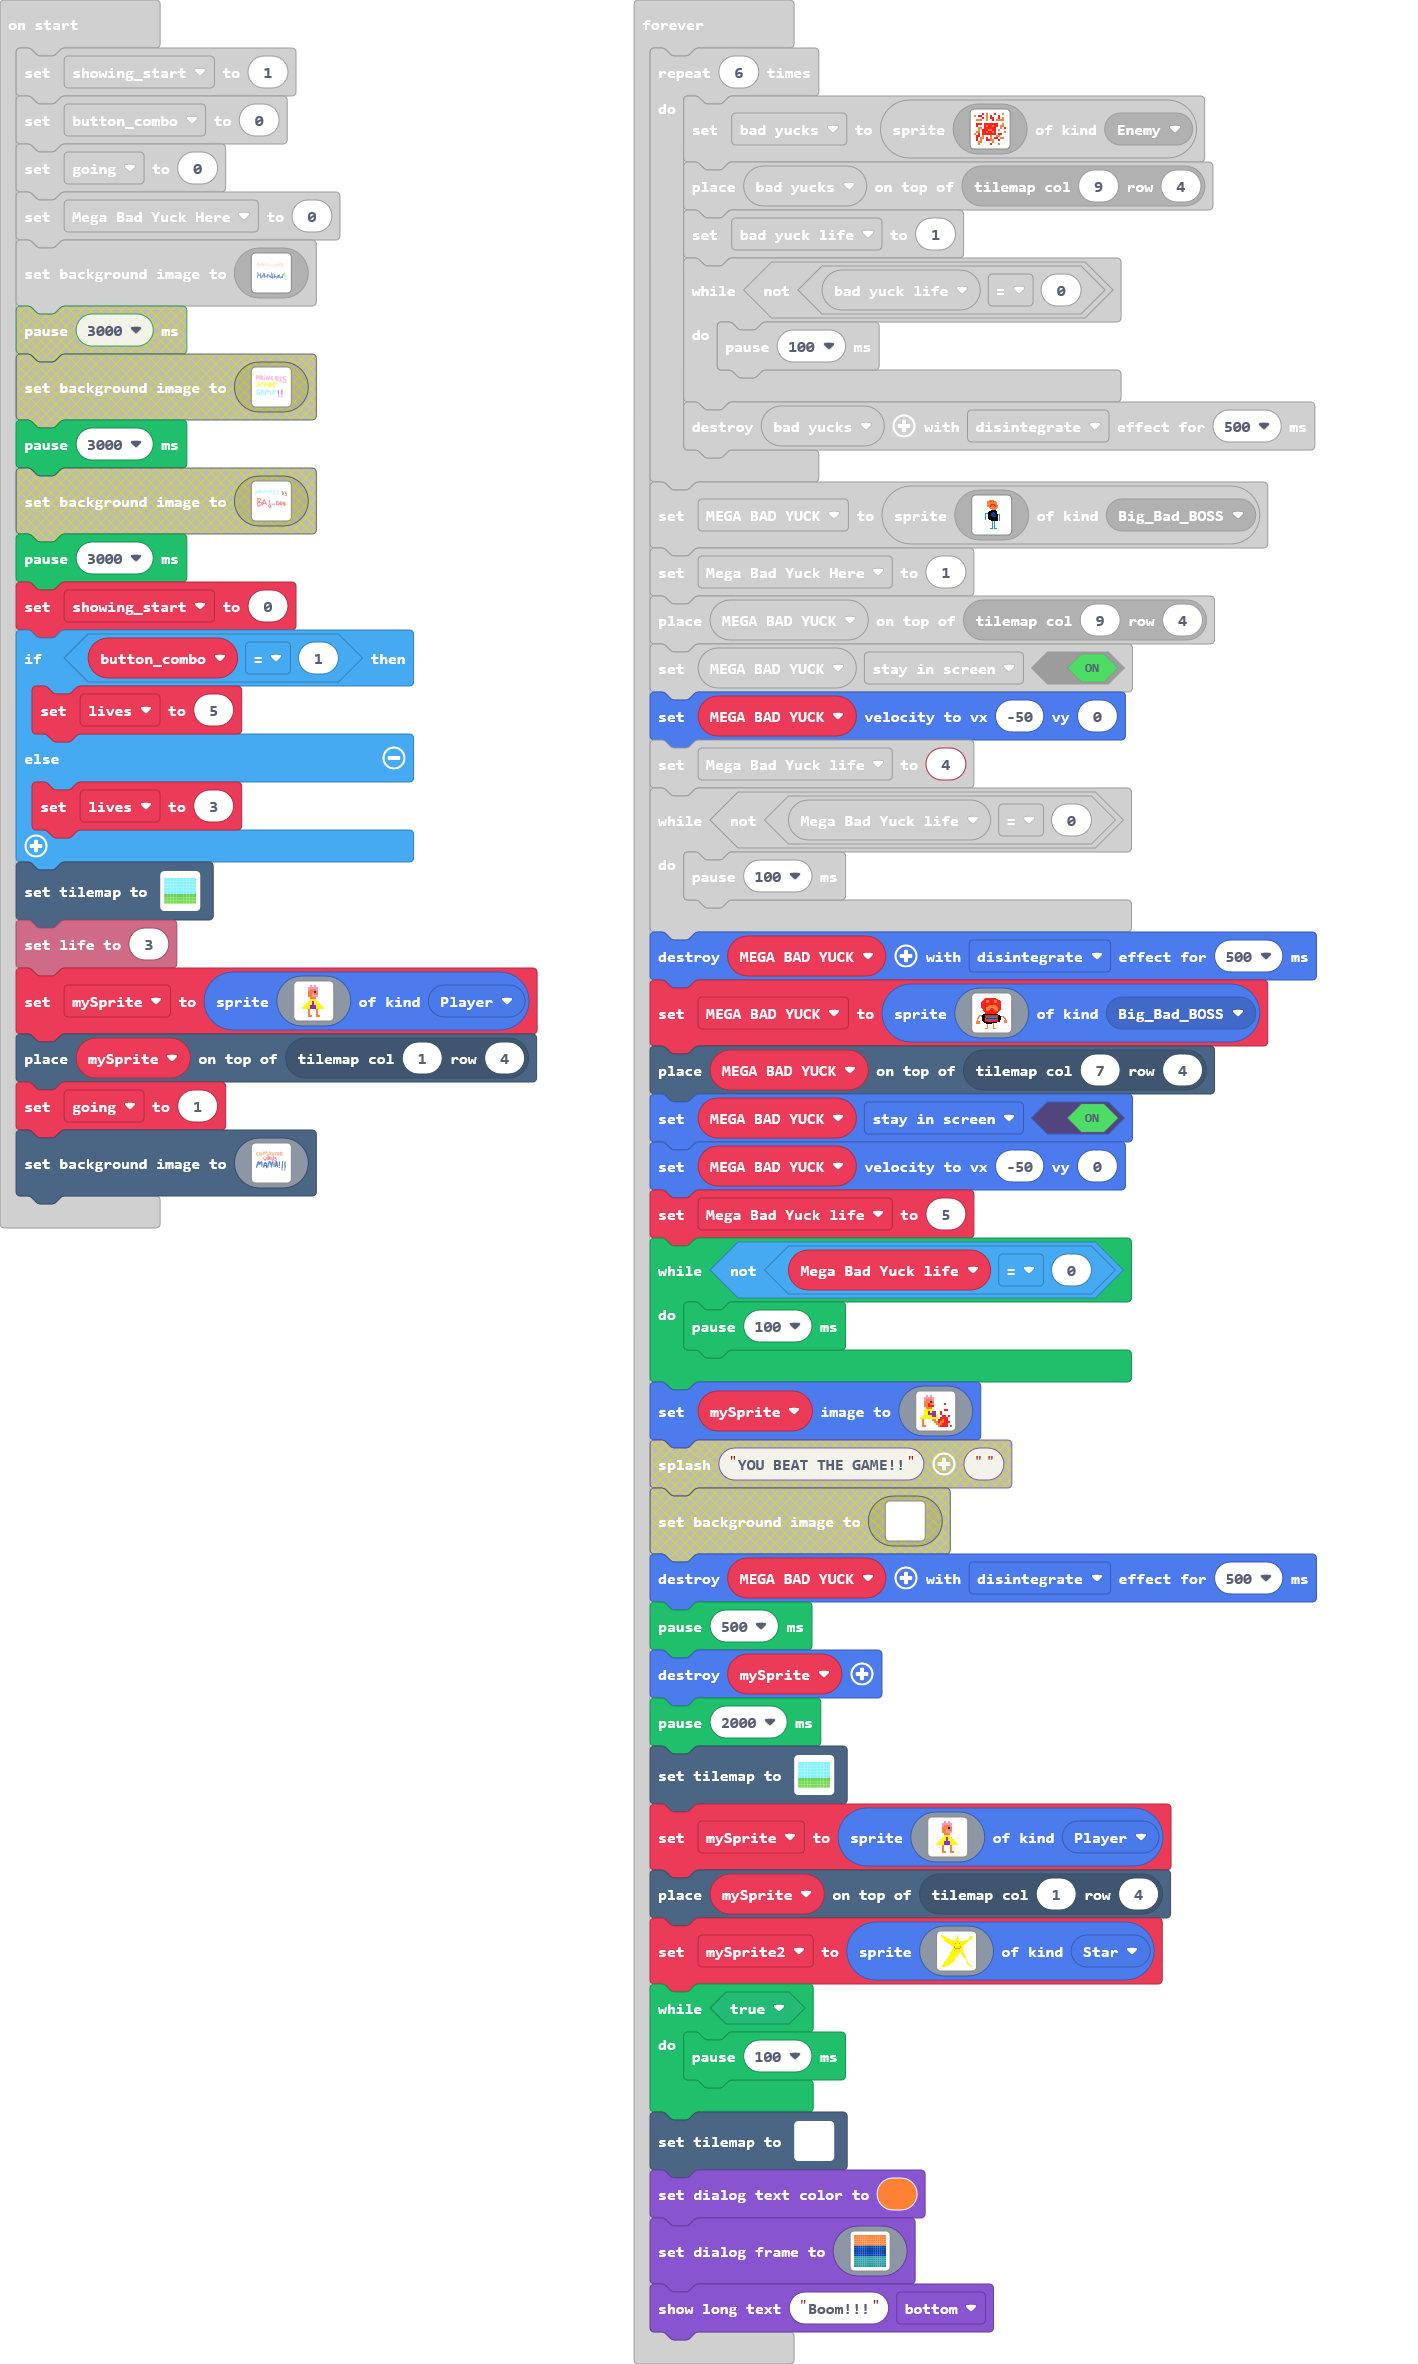
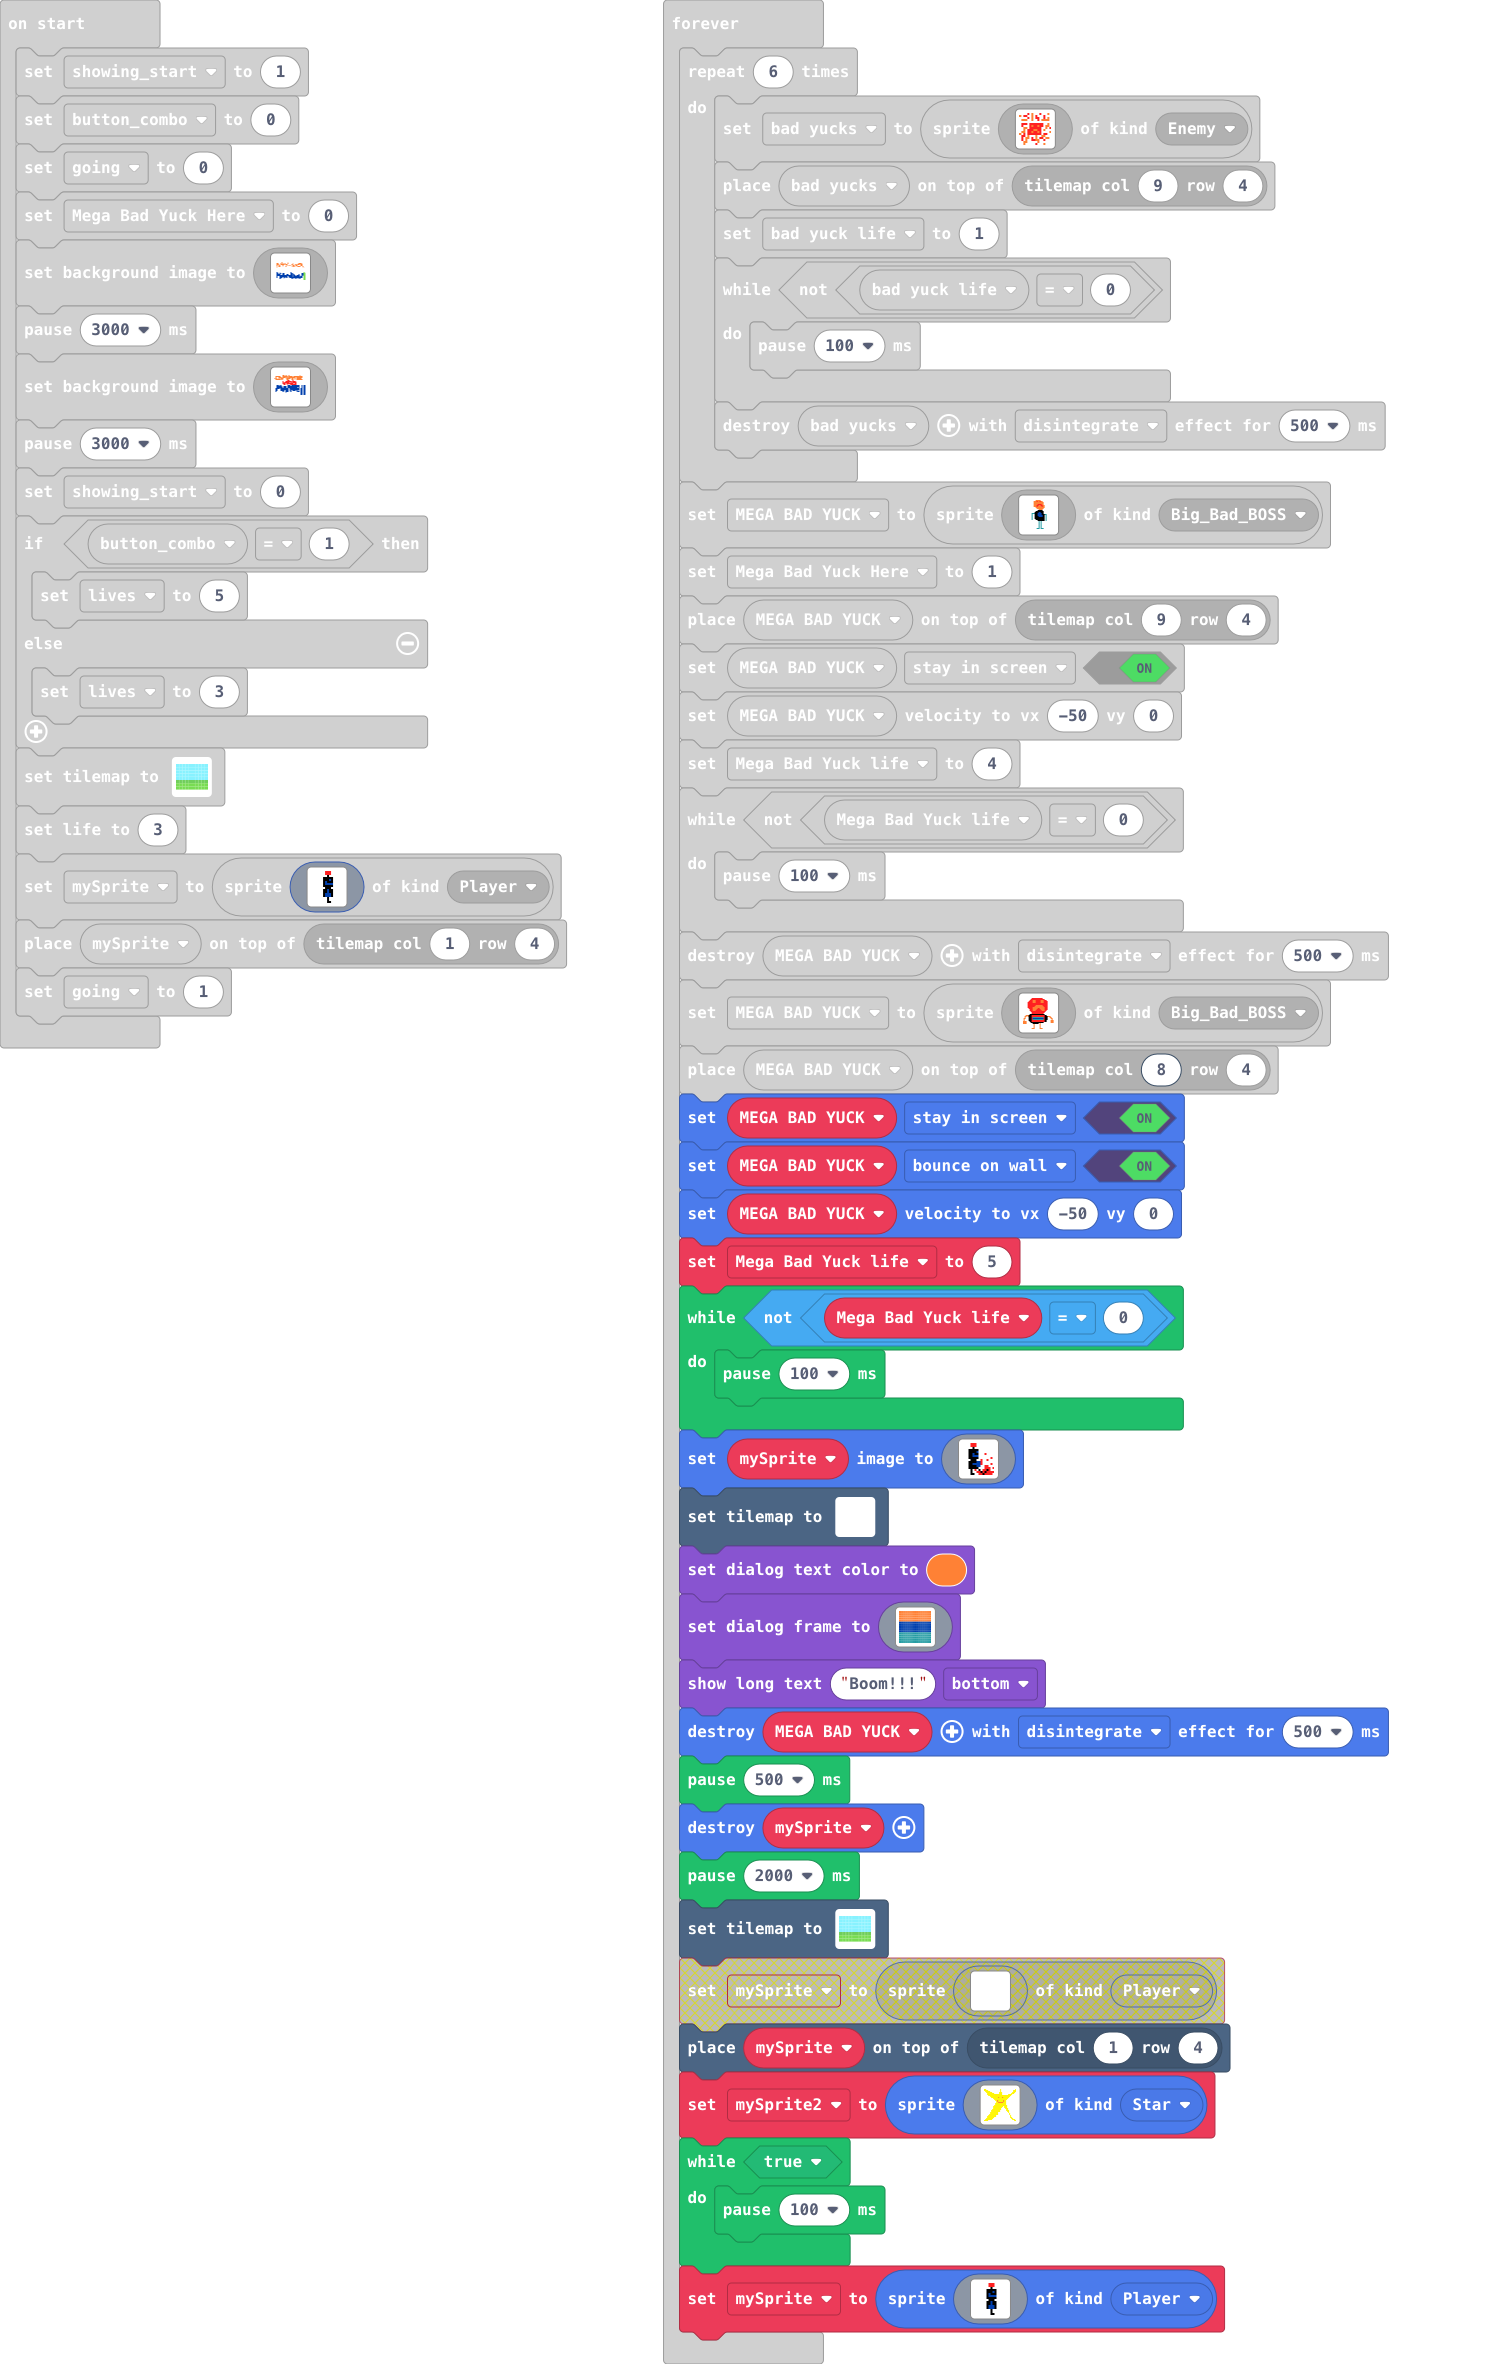
Update main.blocks, main.ts

diff --git a/main.ts b/main.ts
@@ -347,22 +347,22 @@ tiles.setTilemap(tiles.createTilemap(hex`0a0008000303030303030303030303030303030
     `, [myTiles.transparency16,myTiles.tile1,myTiles.tile2,myTiles.tile3], TileScale.Sixteen))
 info.setLife(3)
 mySprite = sprites.create(img`
-    . . . . . . 3 . 3 . . . . . . . 
-    . . . . . 3 3 3 3 3 . . . . . . 
-    . . . . . 3 4 4 4 3 . . . . . . 
-    . . . . . 4 4 4 8 4 . . . . . . 
-    . . . . . 4 4 3 4 4 . . . . . . 
-    . . . . . 4 4 3 3 3 . . . . . . 
-    . . . . . . 4 4 4 . . . . . . . 
-    . . . . . . 5 5 5 . . . . . . . 
-    . . . . . 5 5 a 5 5 . . . . . . 
-    . . . . 5 5 5 a 5 5 5 . . . . . 
-    . . . 5 5 5 a a a 5 5 5 . . . . 
-    . . 5 5 5 5 a a a 5 5 5 5 . . . 
-    . . . . . 4 . . . 4 . . . . . . 
-    . . . . . 4 . . . 4 . . . . . . 
-    . . . . . 4 . . . 4 . . . . . . 
-    . . . . . 4 4 . . 4 4 . . . . . 
+    . . . . . . . 2 2 2 . . . . . . 
+    . . . . . . . 2 2 2 . . . . . . 
+    . . . . . . . . f . . . . . . . 
+    . . . . . . f f f f f . . . . . 
+    . . . . . . f f f 8 f . . . . . 
+    . . . . . . f 8 f f f . . . . . 
+    . . . . . . f 8 8 8 8 . . . . . 
+    . . . . . . f f f f f . . . . . 
+    . . . . . . . f f f . . . . . . 
+    . . . . . . f f 8 f f . . . . . 
+    . . . . . . f f 8 f f . . . . . 
+    . . . . . . f 8 8 8 f . . . . . 
+    . . . . . . f 8 8 8 f . . . . . 
+    . . . . . . . . f . . . . . . . 
+    . . . . . . . . f . . . . . . . 
+    . . . . . . . . f f . . . . . . 
     `, SpriteKind.Player)
 tiles.placeOnTile(mySprite, tiles.getTileLocation(1, 4))
 going = 1
@@ -470,30 +470,31 @@ forever(function () {
         . . . . . . . . . . . 4 . . . . . 4 . . . . . . . . . . . . . . 
         . . . . . . . . . 4 4 4 . . . . . 4 4 4 . . . . . . . . . . . . 
         `, SpriteKind.Big_Bad_BOSS)
-    tiles.placeOnTile(MEGA_BAD_YUCK, tiles.getTileLocation(7, 4))
+    tiles.placeOnTile(MEGA_BAD_YUCK, tiles.getTileLocation(8, 4))
     MEGA_BAD_YUCK.setFlag(SpriteFlag.StayInScreen, true)
+    MEGA_BAD_YUCK.setFlag(SpriteFlag.BounceOnWall, true)
     MEGA_BAD_YUCK.setVelocity(-50, 0)
     Mega_Bad_Yuck_life = 5
     while (!(Mega_Bad_Yuck_life == 0)) {
         pause(100)
     }
     mySprite.setImage(img`
-        . . . 3 . 3 . . . . . . . . . . 
-        . . 3 3 3 3 3 . . . . . . . . . 
-        . . 3 4 4 4 3 . . . . . . . . . 
-        . . 4 4 4 8 4 . . . . . . . . . 
-        . . 4 4 2 4 4 . . . . . 2 . . . 
-        . . 4 4 2 2 2 . . . . . . . . . 
-        . . . 4 4 4 . . . . . . . . . . 
-        . . 5 5 5 5 5 . . . . . 2 2 . . 
-        . . 5 5 a 5 a a . . 2 . . . . . 
-        . . 5 5 a a a a . . 2 . . . . . 
-        . 5 5 5 5 5 a a 5 . . 2 2 . 2 . 
-        5 5 5 5 5 5 5 5 5 . 2 2 2 2 . . 
-        . 4 . . . . 4 4 . 2 2 4 2 2 . . 
-        . 4 . . . . . 4 4 2 4 4 2 2 2 . 
-        . 4 . . . . . . 4 4 4 2 2 2 . . 
-        . 4 4 . . . . . . 4 2 2 2 2 . 2 
+        . . . . 2 2 2 . . . . . . . . . 
+        . . . . 2 2 2 . . . . . . . . . 
+        . . . . . f . . . . . . . . . . 
+        . . . f f f f f . . . . . . . . 
+        . . . f f f f 8 . . . . . . . . 
+        . . . f f 8 f f . . . 2 . . . . 
+        . . . f f 8 8 8 . . . . . . . . 
+        . . . f f f f f . . . . . . 2 . 
+        . . . . f f f . . 2 . . 2 . . . 
+        . . . f f f f 8 8 2 . . . . . . 
+        . . . f f 8 8 8 8 2 . . . . 2 . 
+        . . . f f f f 8 8 . . 2 2 . . . 
+        . . . f f f f f . . . 2 2 2 . 2 
+        . . . . f . 2 . f . 2 2 f 2 . . 
+        . . . . f . . 2 2 f 2 f 2 2 2 2 
+        . . . . f f . . 2 2 f 2 2 2 2 . 
         `)
     tiles.setTilemap(tiles.createTilemap(hex`1000100001010101010101010101010101010101010101010101010101010101010101010101010101010101010101010101010101010101010101010101010101010101010101010101010101010101010101010101010101010101010101010101010101010101010101010101010101010101010101010101010101010101010101010101010101010101010101010101010101010101010101010101010101010101010101010101010101010101010101010101010101010101010101010101010101010101010101010101010101010101010101010101010101010101010101010101010101010101010101010101010101010101010101010101010101010101`, img`
         . . . . . . . . . . . . . . . . 
@@ -547,22 +548,22 @@ forever(function () {
         2 2 2 2 2 2 2 2 2 2 
         `, [myTiles.transparency16,myTiles.tile1,myTiles.tile2,myTiles.tile3], TileScale.Sixteen))
     mySprite = sprites.create(img`
-        . . . . . . 3 . 3 . . . . . . . 
-        . . . . . 3 3 3 3 3 . . . . . . 
-        . . . . . 3 4 4 4 3 . . . . . . 
-        . . . . . 4 4 4 8 4 . . . . . . 
-        . . . . . 4 4 3 4 4 . . . . . . 
-        . . . . . 4 4 3 3 3 . . . . . . 
-        . . . . . . 4 4 4 . . . . . . . 
-        . . . . . . 5 5 5 . . . . . . . 
-        . . . . . 5 5 a 5 5 . . . . . . 
-        . . . . 5 5 5 a 5 5 5 . . . . . 
-        . . . 5 5 5 a a a 5 5 5 . . . . 
-        . . 5 5 5 5 a a a 5 5 5 5 . . . 
-        . . . . . 4 . . . 4 . . . . . . 
-        . . . . . 4 . . . 4 . . . . . . 
-        . . . . . 4 . . . 4 . . . . . . 
-        . . . . . 4 4 . . 4 4 . . . . . 
+        . . . . . . . 2 2 2 . . . . . . 
+        . . . . . . . 2 2 2 . . . . . . 
+        . . . . . . . . f . . . . . . . 
+        . . . . . . f f f f f . . . . . 
+        . . . . . . f f f 8 f . . . . . 
+        . . . . . . f 8 f f f . . . . . 
+        . . . . . . f 8 8 8 8 . . . . . 
+        . . . . . . f f f f f . . . . . 
+        . . . . . . . f f f . . . . . . 
+        . . . . . . f f 8 f f . . . . . 
+        . . . . . . f f 8 f f . . . . . 
+        . . . . . . f 8 8 8 f . . . . . 
+        . . . . . . f 8 8 8 f . . . . . 
+        . . . . . . . . f . . . . . . . 
+        . . . . . . . . f . . . . . . . 
+        . . . . . . . . f f . . . . . . 
         `, SpriteKind.Player)
     tiles.placeOnTile(mySprite, tiles.getTileLocation(1, 4))
     mySprite2 = sprites.create(img`
